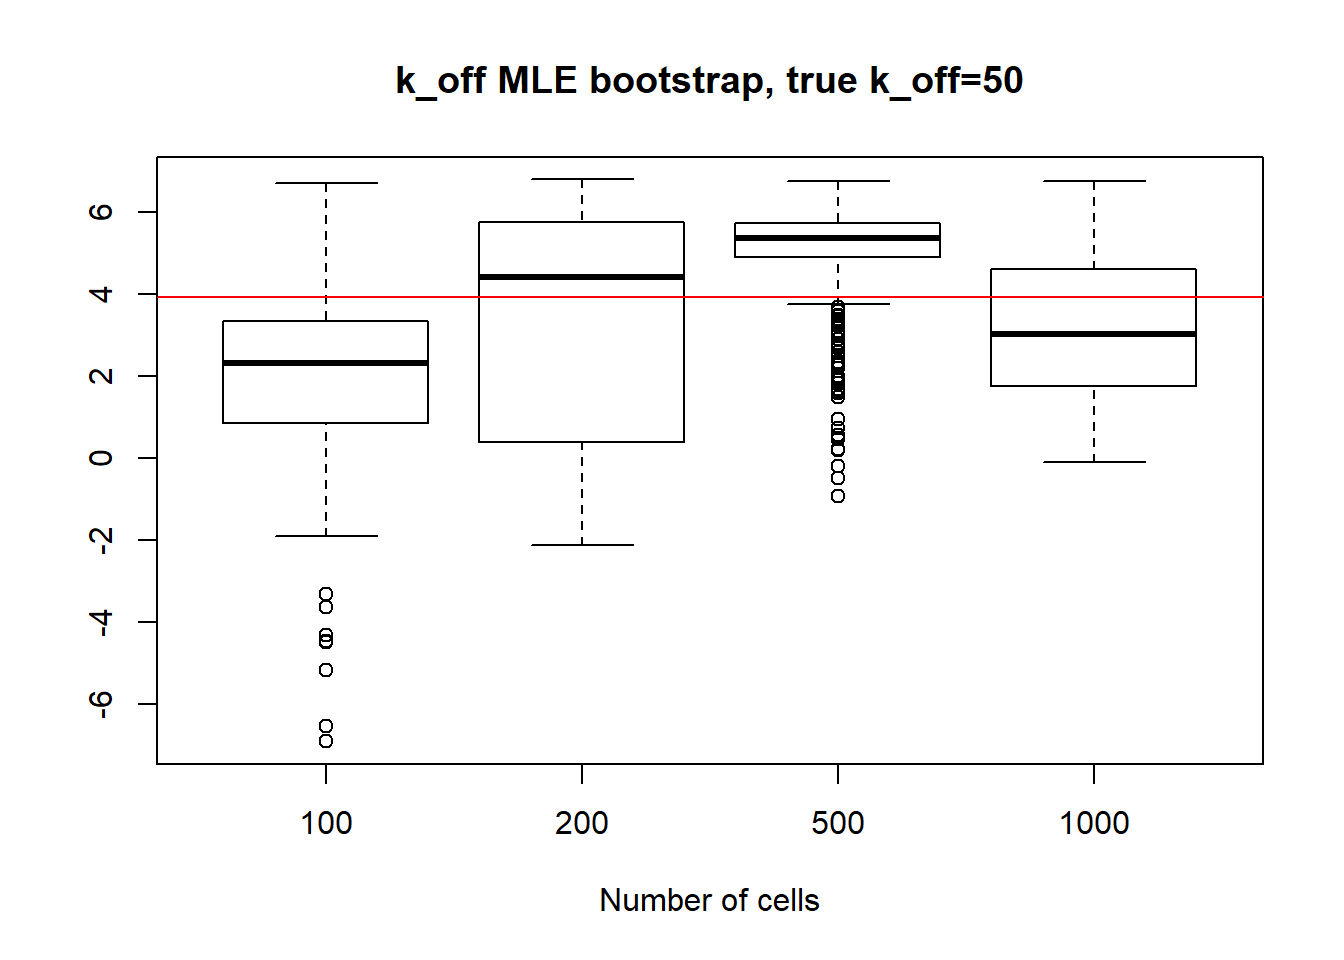
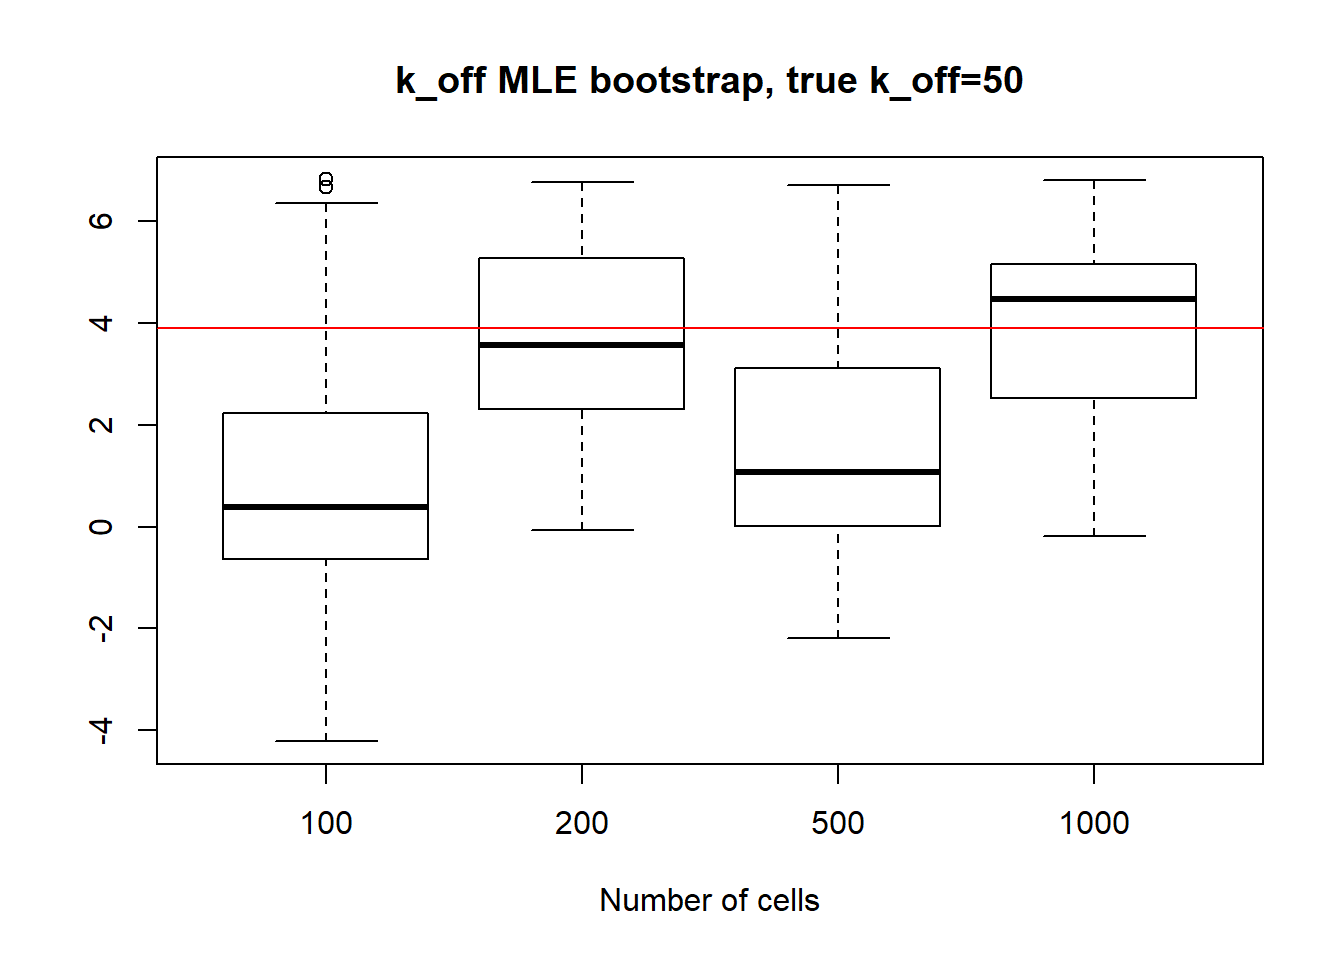
Build site.

diff --git a/docs/MLE_bootstrap_variability_by_sample_size.html b/docs/MLE_bootstrap_variability_by_sample_size.html
@@ -344,7 +344,7 @@ div.section {
 <div class="tab-content">
 <div id="summary" class="tab-pane fade in active">
 <p>
-<strong>Last updated:</strong> 2020-01-14
+<strong>Last updated:</strong> 2020-02-01
 </p>
 <p>
 <strong>Checks:</strong> <span class="glyphicon glyphicon-ok text-success" aria-hidden="true"></span> 6 <span class="glyphicon glyphicon-exclamation-sign text-danger" aria-hidden="true"></span> 1
@@ -459,10 +459,10 @@ analysis/MLE.py
 <div class="panel panel-default">
 <div class="panel-heading">
 <p class="panel-title">
-<a data-toggle="collapse" data-parent="#workflowr-checks" href="#strongRepositoryversionstrongahrefhttpsgithubcomMargareth2407ThesissingleRNAtree9c705464950d7762c0699eb5a5f141c2642e6c28targetblank9c70546a"> <span class="glyphicon glyphicon-ok text-success" aria-hidden="true"></span> <strong>Repository version:</strong> <a href="https://github.com/Margareth2407/Thesis_single_RNA/tree/9c705464950d7762c0699eb5a5f141c2642e6c28" target="_blank">9c70546</a> </a>
+<a data-toggle="collapse" data-parent="#workflowr-checks" href="#strongRepositoryversionstrongahrefhttpsgithubcomMargareth2407ThesissingleRNAtreefac0462b2a6641be01f6195623310c4eeb199b93targetblankfac0462a"> <span class="glyphicon glyphicon-ok text-success" aria-hidden="true"></span> <strong>Repository version:</strong> <a href="https://github.com/Margareth2407/Thesis_single_RNA/tree/fac0462b2a6641be01f6195623310c4eeb199b93" target="_blank">fac0462</a> </a>
 </p>
 </div>
[2 lines of base64/hex data omitted]
 <div class="panel-body">
 <p>
 Great! You are using Git for version control. Tracking code development and connecting the code version to the results is critical for reproducibility. The version displayed above was the version of the Git repository at the time these results were generated. <br><br> Note that you need to be careful to ensure that all relevant files for the analysis have been committed to Git prior to generating the results (you can use <code>wflow_publish</code> or <code>wflow_git_commit</code>). workflowr only checks the R Markdown file, but you know if there are other scripts or data files that it depends on. Below is the status of the Git repository when the results were generated:
@@ -476,8 +476,9 @@ Ignored files:
 
 Unstaged changes:
     Modified:   Data_sim.Rmd
-    Deleted:    analysis/Data_sim.Rmd
-    Deleted:    analysis/MLE_bootstrap_N_variability.Rmd
+    Modified:   analysis/MLE_estimation_with_noise_parameter.Rmd
+    Modified:   analysis/MLE_variability_by_sample_size.Rmd
+    Modified:   analysis/Real_data_filter.Rmd
 
 </code></pre>
 <p>
@@ -547,47 +548,47 @@ boxplot(log(x1[,1]),log(x2[,1]),log(x3[,1]),log(x4[,1]),xlab=&quot;Number of cel
 abline(h = log(0.1),col=&quot;red&quot;)</code></pre>
 <p><img src="figure/MLE_bootstrap_variability_by_sample_size.Rmd/unnamed-chunk-3-1.png" width="672" style="display: block; margin: auto;" /></p>
 <pre class="r"><code>paste(&quot;K_on standart deviations:&quot;,&quot;n=100:&quot;,round(sqrt(var(x1[,1],na.rm=TRUE)),3), &quot;; n=200:&quot;,round(sqrt(var(x2[,1],na.rm=TRUE)),3), &quot;; n=500:&quot;, round(sqrt(var(x3[,1],na.rm=TRUE)),3), &quot;; n=1000:&quot;,round(sqrt(var(x4[,1],na.rm=TRUE)),3))</code></pre>
-<pre><code>[1] &quot;K_on standart deviations: n=100: 0.021 ; n=200: 0.016 ; n=500: 0.01 ; n=1000: 0.007&quot;</code></pre>
+<pre><code>[1] &quot;K_on standart deviations: n=100: 0.027 ; n=200: 0.016 ; n=500: 0.009 ; n=1000: 0.006&quot;</code></pre>
 <pre class="r"><code>boxplot(log(x1[,2]),log(x2[,2]),log(x3[,2]),log(x4[,2]),xlab=&quot;Number of cells&quot;,names=c(&quot;100&quot;, &quot;200&quot;,&quot;500&quot;, &quot;1000&quot;),main=&quot;k_off MLE bootstrap, true k_off=0.1&quot;)
 abline(h = log(0.1),col=&quot;red&quot;)</code></pre>
 <p><img src="figure/MLE_bootstrap_variability_by_sample_size.Rmd/unnamed-chunk-3-2.png" width="672" style="display: block; margin: auto;" /></p>
 <pre class="r"><code>paste(&quot;k_off standart deviations:&quot;, &quot;n=100:&quot;, round(sqrt(var(x1[,2],na.rm=TRUE)),3), &quot;; n=200:&quot;,round(sqrt(var(x2[,2],na.rm=TRUE)),3), &quot;; n=500:&quot;, round(sqrt(var(x3[,2],na.rm=TRUE)),3), &quot;; n=1000: &quot;, round(sqrt(var(x4[,2],na.rm=TRUE)),3))</code></pre>
-<pre><code>[1] &quot;k_off standart deviations: n=100: 0.032 ; n=200: 0.02 ; n=500: 0.012 ; n=1000:  0.008&quot;</code></pre>
+<pre><code>[1] &quot;k_off standart deviations: n=100: 0.031 ; n=200: 0.02 ; n=500: 0.01 ; n=1000:  0.008&quot;</code></pre>
 <pre class="r"><code>boxplot(log(x1[,3]),log(x2[,3]),log(x3[,3]),log(x4[,3]),xlab=&quot;Number of cells&quot;,names=c(&quot;100&quot;, &quot;200&quot;,&quot;500&quot;, &quot;1000&quot;),main=&quot;k_r MLE bootstrap, true k_r=100&quot;)
 abline(h = log(100),col=&quot;red&quot;)</code></pre>
 <p><img src="figure/MLE_bootstrap_variability_by_sample_size.Rmd/unnamed-chunk-3-3.png" width="672" style="display: block; margin: auto;" /></p>
 <pre class="r"><code>paste(&quot;k_r standart deviations:&quot;, &quot;n=100:&quot;, round(sqrt(var(x1[,3],na.rm=TRUE)),3), &quot;; n=200:&quot;,round(sqrt(var(x2[,3],na.rm=TRUE)),3), &quot;; n=500:&quot;, round(sqrt(var(x3[,3],na.rm=TRUE)),3), &quot;n=1000:&quot;, round(sqrt(var(x4[,3],na.rm=TRUE)),3))</code></pre>
-<pre><code>[1] &quot;k_r standart deviations: n=100: 2.485 ; n=200: 1.36 ; n=500: 0.834 n=1000: 0.592&quot;</code></pre>
+<pre><code>[1] &quot;k_r standart deviations: n=100: 2.102 ; n=200: 1.402 ; n=500: 0.77 n=1000: 0.576&quot;</code></pre>
 </div>
 <div id="ii-large-k_on-and-k_off-case" class="section level2">
 <h2>II) Large <span class="math inline">\(k_{on}\)</span> and <span class="math inline">\(k_{off}\)</span> case:</h2>
 <p>For large <span class="math inline">\(k_{on}\)</span> and <span class="math inline">\(k_{off}\)</span> case, we see decrease in standart deviation, but the magnitude is quite high.</p>
 <p><img src="figure/MLE_bootstrap_variability_by_sample_size.Rmd/unnamed-chunk-4-1.png" width="672" style="display: block; margin: auto;" /></p>
-<pre><code>[1] &quot;K_on standart deviations: n=100: 39.701 ; n=200: 36.741 ; n=500: 22.918 ; n=1000: 24.557&quot;</code></pre>
+<pre><code>[1] &quot;K_on standart deviations: n=100: 24.888 ; n=200: 20.778 ; n=500: 26.62 ; n=1000: 23.83&quot;</code></pre>
 <p><img src="figure/MLE_bootstrap_variability_by_sample_size.Rmd/unnamed-chunk-4-2.png" width="672" style="display: block; margin: auto;" /></p>
-<pre><code>[1] &quot;k_off standart deviations: n=100: 90.901 ; n=200: 194.062 ; n=500: 126.755 ; n=1000:  99.7&quot;</code></pre>
+<pre><code>[1] &quot;k_off standart deviations: n=100: 109.668 ; n=200: 145.762 ; n=500: 89.291 ; n=1000:  126.325&quot;</code></pre>
 <p><img src="figure/MLE_bootstrap_variability_by_sample_size.Rmd/unnamed-chunk-4-3.png" width="672" style="display: block; margin: auto;" /></p>
-<pre><code>[1] &quot;k_r standart deviations: n=100: 51.575 ; n=200: 134.792 ; n=500: 70.096 n=1000: 53.319&quot;</code></pre>
+<pre><code>[1] &quot;k_r standart deviations: n=100: 83.034 ; n=200: 112.558 ; n=500: 50.253 n=1000: 74.187&quot;</code></pre>
 </div>
 <div id="iii-large-value-of-k_off-and-small-k_on-case" class="section level2">
 <h2>III) Large value of <span class="math inline">\(k_{off}\)</span> and small <span class="math inline">\(k_{on}\)</span> case:</h2>
 <p>For small <span class="math inline">\(k_{on}\)</span> large <span class="math inline">\(k_{off}\)</span> we observe that as <span class="math inline">\(k_{on}\)</span> has small deviation and as we might remember from previous vignette, this is the only identifiable parameter in this scenario. Both <span class="math inline">\(k_{off}\)</span> and <span class="math inline">\(k_{r}\)</span> were unidentifiable, so we see high standart deviation even with big data size. We also experience some instability in standart deviation - sample size dependance as we sometimes see increase in standart deviation despite the sample size growth.</p>
 <p><img src="figure/MLE_bootstrap_variability_by_sample_size.Rmd/unnamed-chunk-5-1.png" width="672" style="display: block; margin: auto;" /></p>
-<pre><code>[1] &quot;K_on standart deviations: n=100: 0.201 ; n=200: 0.166 ; n=500: 0.091 ; n=1000: 0.063&quot;</code></pre>
+<pre><code>[1] &quot;K_on standart deviations: n=100: 0.205 ; n=200: 0.132 ; n=500: 0.093 ; n=1000: 0.06&quot;</code></pre>
 <p><img src="figure/MLE_bootstrap_variability_by_sample_size.Rmd/unnamed-chunk-5-2.png" width="672" style="display: block; margin: auto;" /></p>
-<pre><code>[1] &quot;k_off standart deviations: n=100: 134.838 ; n=200: 72.871 ; n=500: 26.549 ; n=1000:  7.544&quot;</code></pre>
+<pre><code>[1] &quot;k_off standart deviations: n=100: 160.242 ; n=200: 139.272 ; n=500: 57.805 ; n=1000:  12.559&quot;</code></pre>
 <p><img src="figure/MLE_bootstrap_variability_by_sample_size.Rmd/unnamed-chunk-5-3.png" width="672" style="display: block; margin: auto;" /></p>
-<pre><code>[1] &quot;k_r standart deviations: n=100: 787.675 ; n=200: 528.631 ; n=500: 202.353 n=1000: 64.361&quot;</code></pre>
+<pre><code>[1] &quot;k_r standart deviations: n=100: 1328.824 ; n=200: 1055.969 ; n=500: 539.731 n=1000: 103.627&quot;</code></pre>
 </div>
 <div id="iv-small-value-of-k_off-and-big-k_on" class="section level2">
 <h2>IV) Small value of <span class="math inline">\(k_{off}\)</span> and big <span class="math inline">\(k_{on}\)</span></h2>
 <p>Small value if <span class="math inline">\(k_{off}\)</span> and big <span class="math inline">\(k_{on}\)</span> scenario has identifiable parameters, so alike with small value <span class="math inline">\(k_{on}\)</span>, <span class="math inline">\(k_{on}\)</span> case we observe reasonable standart deviation values, especially for bigger dataset as well as decrease in standart deviation size.</p>
 <p><img src="figure/MLE_bootstrap_variability_by_sample_size.Rmd/unnamed-chunk-6-1.png" width="672" style="display: block; margin: auto;" /></p>
-<pre><code>[1] &quot;K_on standart deviations: n=100: 25.369 ; n=200: 18.497 ; n=500: 1.778 ; n=1000: 3.265&quot;</code></pre>
+<pre><code>[1] &quot;K_on standart deviations: n=100: 20.615 ; n=200: 9.718 ; n=500: 7.171 ; n=1000: 1.664&quot;</code></pre>
 <p><img src="figure/MLE_bootstrap_variability_by_sample_size.Rmd/unnamed-chunk-6-2.png" width="672" style="display: block; margin: auto;" /></p>
-<pre><code>[1] &quot;k_off standart deviations: n=100: 66.342 ; n=200: 46.133 ; n=500: 0.417 ; n=1000:  0.957&quot;</code></pre>
+<pre><code>[1] &quot;k_off standart deviations: n=100: 72.209 ; n=200: 38.885 ; n=500: 7.987 ; n=1000:  0.257&quot;</code></pre>
 <p><img src="figure/MLE_bootstrap_variability_by_sample_size.Rmd/unnamed-chunk-6-3.png" width="672" style="display: block; margin: auto;" /></p>
-<pre><code>[1] &quot;k_r standart deviations: n=100: 62.25 ; n=200: 40.772 ; n=500: 2.212 n=1000: 2.519&quot;</code></pre>
+<pre><code>[1] &quot;k_r standart deviations: n=100: 80.019 ; n=200: 32.034 ; n=500: 9.794 n=1000: 1.38&quot;</code></pre>
 <br>
 <p>
 <button type="button" class="btn btn-default btn-workflowr btn-workflowr-sessioninfo" data-toggle="collapse" data-target="#workflowr-sessioninfo" style="display: block;">
